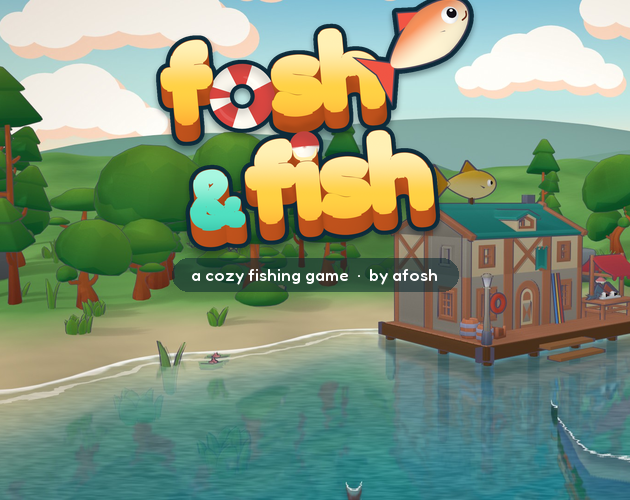
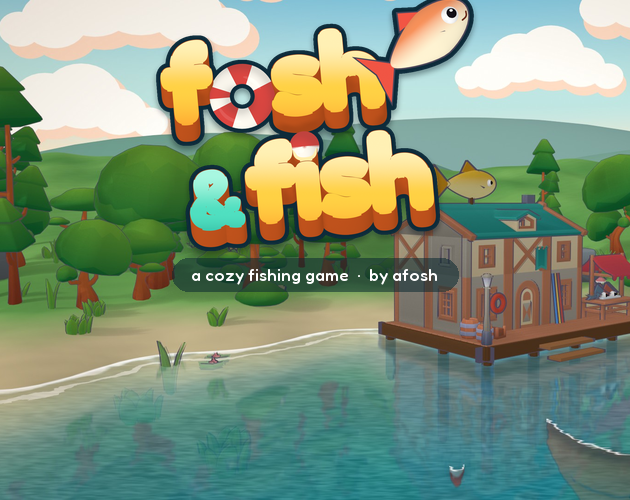
Loading screen: the captain sits in his boat
He was perched on the tip of the fishing boat's bow with his boots dangling off the hull, because I'd turned him to
face the camera without moving him. Now he sits where the game seats him, mirrored, in the rowboat you actually start
with (the oar on the camera's side is stowed, it cut across him). The foam and the boat's reflection no longer come out
in stair steps.

Changed region(s): [[0.8444, 0.81, 1.0, 1.0], [0.6937, 0.93, 0.754, 0.99], [0.5429, 0.96, 0.573, 1.0]]

diff --git a/tools/blender/vf_brand.py b/tools/blender/vf_brand.py
@@ -11,6 +11,7 @@ import os
 import bmesh
 import bpy
 import numpy as np
+from bpy_extras.object_utils import world_to_camera_view
 from mathutils import Vector
 
 import boom_fx as FX
@@ -238,7 +239,7 @@ def render_icon(path):
 
 # ------------------------------------------------------------------- the loading screen's picture
 TITLE_CAM = ((-4.0, -13.5, 4.4), (86.0, 0.0, 0.0), 28.0)
-TITLE_BOAT = (0.7, -1.5, 152.0)         # x, y, which way the bow points (degrees)
+TITLE_BOAT = ("Rowboat", 0.25, -0.8, 165.0)    # which, x, y, which way the bow points (degrees)
 HILLS = [(-34, 96, 0, 46, 22, 15, "#86bdab"), (6, 118, 0, 62, 24, 20, "#9cc9c2"), (44, 92, 0, 44, 20, 13, "#8fc2ae"),
          (-8, 76, 0, 34, 16, 8, "#6fae8f"), (26, 72, 0, 28, 14, 7, "#74b394"), (-46, 70, 0, 26, 14, 8, "#6dab8c")]
 CLOUDS = [(-96, 210, 62, 14.0), (-40, 240, 86, 11.0), (34, 200, 44, 9.0), (92, 215, 70, 15.0), (118, 240, 40, 11.0), (-124, 230, 34, 12.0), (8, 260, 112, 13.0)]
@@ -254,6 +255,37 @@ def _cloud(x, y, z, s):
             b["no_outline"] = True
             out.append(b)
     return out
+
+
+def _drop_near_oar(hull, yaw):
+    """The oar on the camera's side would cut right across the captain: he's fishing, it's stowed. (A small loose piece of
+    the mesh sticking out past the hull, on the boat's side that yaw has turned toward the camera.)"""
+    sign = 1.0 if math.cos(math.radians(yaw)) < 0.0 else -1.0
+    for ob in hull:
+        bm = bmesh.new()
+        bm.from_mesh(ob.data)
+        seen, gone = set(), []
+        for v0 in bm.verts:
+            if v0.index in seen:
+                continue
+            piece, todo = [], [v0]
+            seen.add(v0.index)
+            while todo:
+                v = todo.pop()
+                piece.append(v)
+                for e in v.link_edges:
+                    n = e.other_vert(v)
+                    if n.index not in seen:
+                        seen.add(n.index)
+                        todo.append(n)
+            ys = [v.co.y * sign for v in piece]
+            if len(piece) < 60 and min(ys) > 0.3 and max(ys) > 1.0:
+                gone += piece
+        if gone:
+            bmesh.ops.delete(bm, geom=gone, context="VERTS")
+            bm.to_mesh(ob.data)
+            ob.data.update()
+        bm.free()
 
 
 def render_title(d):
@@ -296,10 +328,14 @@ def render_title(d):
     for c in CLOUDS:
         _cloud(*c)
     # the boat, the captain, his rod and his line
-    bx, by, yaw = TITLE_BOAT
-    hull_parts, deck = B.build_boat("Fishing Boat")
+    which, bx, by, yaw = TITLE_BOAT
+    if os.environ.get("VF_TITLE_HULL"):                   # (to try another one)
+        which, bx, by, yaw = os.environ["VF_TITLE_HULL"].split(",")
+        bx, by, yaw = float(bx), float(by), float(yaw)
+    hull_parts, deck = B.build_boat(which)
     seat = B.find_seat(hull_parts, deck)
     hull = TD.clip_below(hull_parts)
+    _drop_near_oar(hull, yaw)
     K.outline_all(hull, 0.035)
     pivot = FX.empty("boat")
     bpy.context.view_layer.update()
@@ -310,11 +346,13 @@ def render_title(d):
     pivot.location = (bx, by, 0.0)
     pivot.rotation_euler = (0, 0, math.radians(yaw))
     bpy.context.view_layer.update()
-    arm, meshes, root = C.build(face=-46.0)
+    # He sits where the game seats him, mirrored (the bow points left here): on the far side of the deck, his legs across
+    # it. The game turns him C.FACE from the camera toward the bow, in the boat's own terms; so here it's that, mirrored.
+    arm, meshes, root = C.build(face=(180.0 - C.FACE) + yaw - 360.0)
     C.hat(arm, next(m for m in meshes if "Head" in m.name))
     sit, fish = acts[C.SEAT], acts["Fishing_Idle"]
     C.set_pose(arm, sit, C._span(sit, 0.5), fish, C._span(fish, 0.0))
-    root.location = pivot.matrix_world @ Vector(seat)
+    root.location = pivot.matrix_world @ Vector((seat[0], -seat[1], seat[2]))
     bpy.context.view_layer.update()
     g = C.bone_world(arm, "handslot.r").to_translation()
     tip = g + Vector((-0.8, -0.2, 0.56)).normalized() * 2.5
@@ -334,6 +372,8 @@ def render_title(d):
     cam.rotation_euler = [math.radians(a) for a in rot]
     bpy.context.view_layer.update()
     sc = bpy.context.scene
+    v = world_to_camera_view(sc, cam, float_at)
+    print("TITLE float at", round(v.x, 4), round(1.0 - v.y, 4))
     os.makedirs(d, exist_ok=True)
     was = {o: o.hide_render for o in bpy.data.objects}
     for o in boat_objs:

diff --git a/tools/art/make_brand.py b/tools/art/make_brand.py
@@ -270,7 +270,9 @@ def title():
     x0, x1 = int(cols.min()), int(cols.max())
     keel = median_filter(keel, size=9)
     has = (keel >= 0)[None, :]
-    ky = np.maximum(keel, 0)[None, :].astype(np.float32)
+    # (smooth, or the foam and the reflection come out in stair steps; the columns with no hull take their neighbours' value)
+    filled = np.interp(np.arange(W), np.where(keel >= 0)[0], keel[keel >= 0]).astype(np.float32)
+    ky = gaussian_filter(filled, sigma=4.0)[None, :]
     below = np.clip((yy - ky) / 170.0, 0.0, 1.0)
     bsx = np.clip(xx + wob * (1.0 + below * 7.0), 0, W - 1)
     bsy = np.clip(ky - (yy - ky) * 0.95, 0, H - 1)
